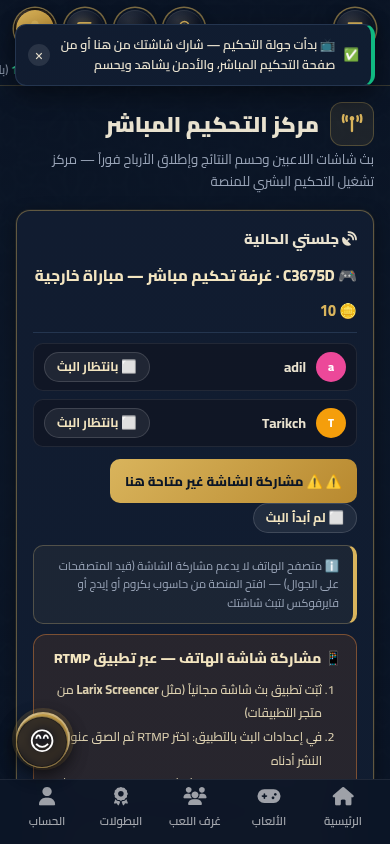
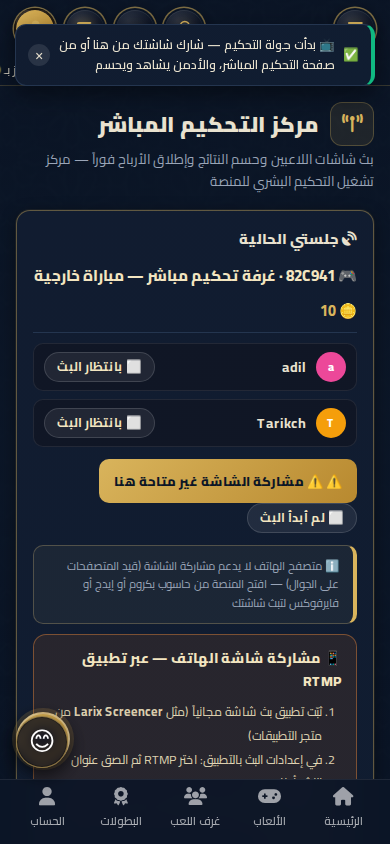
[v2.81.5·ما بعد النشر] توثيق النشر الفعلي: Cloudflare Pages + خادم الهاتف + فحوص ما بعد إعادة التشغيل
CHANGELOG: سطر «آخر تحديث» صار يسجّل النشر حقيقةً لا نيّة (بصمة 2.81.4 حيّة
على dtsg.pages.dev · build 2.81.4 على الهاتف · 401 لا 404 على بوابة
التحكيم · حصر Loopback مثبت بالقياس · 21/21 e2e · حدوده موثّقة).
worklog: سجل الجلسة كاملة مع حدود المقارنة.

diff --git a/CHANGELOG.md b/CHANGELOG.md
@@ -1,7 +1,7 @@
 # سجل التغييرات — DTSG (v2.27 → v2.81.4)
 
 توثيق رسمي لكل التحسينات المنفَّذة منذ الإصدار v2.27 وحتى الحالي.
-آخر تحديث: 2026-10-04 (إتمام **v2.81.4** — إصلاح خلل مشاركة الشاشة الميداني الشامل بعد تسجيل المالك: البطاقة العمياء صارت شارة حيّة ⚪/🟠/⚫، وغرفة Larix تكتشف آلياً وتظهر بلوحة الأدمن، والأدمن يشاهد بث المرحّل فعلاً عبر بروكسي HLS موقّع، مع إصلاح اختصار same-origin في api.js وثغلبة SRT على Loopback — انظر كتلة v2.81.4 أدناه) + 2026-10-04 (إتمام **v2.81.3** — إزالة المسار المشفَّر WARP بقرار المالك + إصلاحا تدقيق P2/P3 + إصلاح خللَي تطبيق الأندرويد APK الميدانيَين: فشل تسجيل الدخول داخل WebView Capacitor وغياب شعار المنصة — انظر كتلة v2.81.3 أدناه — البند المعلَّق على المالك في `docs/PHONE_HANDOFF_v281.md` §4 اتُّخذ ونُفِّذ أحد طرفَيه: **playit.gg مرفوض على التكلفة** (نفقه TCP في خطة مدفوعة، بتأكيد المالك) ⇒ لا يُعاد تقييمه · **المسار أ — نفق bore.pub TCP — منفَّذ تحت pm2 ومُتحقَّق منه طرفاً لطرف** (نشر `ffmpeg` عبر العنوان العام قُرئ `online` ببايتات غير صفرية، ثم أُوقف النفق فعاد المرحّل خالياً) · **المسار ب — شبكة Cloudflare WARP الخاصة — مُحضَّر ومعطَّل بإجراء واحد من المالك** (تفعيل Zero Trust: `access.api.error.not_enabled`) ⇒ **غير مُختبَر ولا يُنشر في أي مكان أنه مُختبَر** — انظر كتلة v2.81.2 أدناه) + 2026-10-03 (إتمام **v2.81.1** — تثبيت MediaMTX v1.21.1 وإشرافه تحت pm2 + **إغلاق بند المصادقة المفتوح: رمز نشر مُشتق بـHMAC داخل المسار** بعد اكتشاف أن انتحال بثّ الخصم أمام الأدمن ممكن + حصر كل مستمعي المرحّل على Loopback + إبقاء اختيار مسار نشر 1935 معلّقاً على المالك — انظر كتلة v2.81.1 أدناه) + 2026-10-03 (إتمام v2.81.0/ج — تثبيت سير عمل APK بتوكن المالك بصلاحية workflow وأول بناء آلي ناجح #1) + **تمريرة تصحيح ما بعد التدقيق على v2.81.0** (١٤ إصلاحاً — انظر «و» في كتلة v2.81.0) — وسابقاً: 2026-10-03 (v2.80.0 — فحص أمني واختراق شامل + إصلاحات فلات دوغ الثلاثة + حراسة الأمان الدائمة + إغلاق ثغرات المال المؤكدة · **نُشر v2.80.0 فعلاً**: Cloudflare Pages بحساب `758fcc827f3338772847c28391b6c6c3` ⇒ `dtsg.pages.dev` يخدم `DTSG_BUILD = 'v2.80.0'`، وخادم الهاتف ⇒ `/api/health` يعيد `build 2.80.0` وكل فحوص ما بعد إعادة التشغيل خضراء · **وما بعد النشر** (القسم هـ): عيب عزل بيئة الاختبار أُصلح ⇒ الكود سليم 15/15 · تصحيح شريط الأخبار 25✓0✗ · **`rn-settle` أحمر 11/18 معلّق على قرار المالك — وشرط القاعدة 12 لم يكن مُلبّى عند إصدار v2.80.0**). ولتفاصيل الجلسات السابقة: v2.79.0 (مدخل تحكيم وحيد + يد بلوت + سجل كوين نقيّ) — v2.78.0 (قانون الجوكر + تبويب التحكيم) — وتفاصيل الجلسات الأقدم في worklog.
+آخر تحديث: 2026-10-04 — **نُشر v2.81.4 فعلاً بعد تصحيح بصمته (قاعدة 15) وقبله**: Cloudflare Pages بالحساب `758fcc82…` ⇒ `dtsg.pages.dev` يخدم `DTSG_BUILD = 'v2.81.4'` + `?v=v2814` + `hls.light.min.js` (200 · 296KB) وترويسات الأمان التسع سليمة · وخادم الهاتف ⇒ `/api/health` يعيد `build 2.81.4` والبوابات المركّبة تردّ **401 لا 404** (`/api/matches/mine` و`…/stream-status`، والشاهد الوهمي 404) · منافذ MediaMTX **الستة** غير قابلة للوصول من عنوان الشبكة (والمنفذ 3000 مفتوح ⇒ الشاهد يثبت صحة القياس) ⇒ حصر Loopback سارٍ في العملية المشغَّلة · ويبهوكات تيليغرام الأربعة بلا `last_error` · أجنحة البوت 72 · 27 · 56 · 91 · e2e التحكيم **21/21** على المرحّل المحلي. (إتمام **v2.81.4** — إصلاح خلل مشاركة الشاشة الميداني الشامل بعد تسجيل المالك: البطاقة العمياء صارت شارة حيّة ⚪/🟠/⚫، وغرفة Larix تكتشف آلياً وتظهر بلوحة الأدمن، والأدمن يشاهد بث المرحّل فعلاً عبر بروكسي HLS موقّع، مع إصلاح اختصار same-origin في api.js وثغلبة SRT على Loopback — انظر كتلة v2.81.4 أدناه) + 2026-10-04 (إتمام **v2.81.3** — إزالة المسار المشفَّر WARP بقرار المالك + إصلاحا تدقيق P2/P3 + إصلاح خللَي تطبيق الأندرويد APK الميدانيَين: فشل تسجيل الدخول داخل WebView Capacitor وغياب شعار المنصة — انظر كتلة v2.81.3 أدناه — البند المعلَّق على المالك في `docs/PHONE_HANDOFF_v281.md` §4 اتُّخذ ونُفِّذ أحد طرفَيه: **playit.gg مرفوض على التكلفة** (نفقه TCP في خطة مدفوعة، بتأكيد المالك) ⇒ لا يُعاد تقييمه · **المسار أ — نفق bore.pub TCP — منفَّذ تحت pm2 ومُتحقَّق منه طرفاً لطرف** (نشر `ffmpeg` عبر العنوان العام قُرئ `online` ببايتات غير صفرية، ثم أُوقف النفق فعاد المرحّل خالياً) · **المسار ب — شبكة Cloudflare WARP الخاصة — مُحضَّر ومعطَّل بإجراء واحد من المالك** (تفعيل Zero Trust: `access.api.error.not_enabled`) ⇒ **غير مُختبَر ولا يُنشر في أي مكان أنه مُختبَر** — انظر كتلة v2.81.2 أدناه) + 2026-10-03 (إتمام **v2.81.1** — تثبيت MediaMTX v1.21.1 وإشرافه تحت pm2 + **إغلاق بند المصادقة المفتوح: رمز نشر مُشتق بـHMAC داخل المسار** بعد اكتشاف أن انتحال بثّ الخصم أمام الأدمن ممكن + حصر كل مستمعي المرحّل على Loopback + إبقاء اختيار مسار نشر 1935 معلّقاً على المالك — انظر كتلة v2.81.1 أدناه) + 2026-10-03 (إتمام v2.81.0/ج — تثبيت سير عمل APK بتوكن المالك بصلاحية workflow وأول بناء آلي ناجح #1) + **تمريرة تصحيح ما بعد التدقيق على v2.81.0** (١٤ إصلاحاً — انظر «و» في كتلة v2.81.0) — وسابقاً: 2026-10-03 (v2.80.0 — فحص أمني واختراق شامل + إصلاحات فلات دوغ الثلاثة + حراسة الأمان الدائمة + إغلاق ثغرات المال المؤكدة · **نُشر v2.80.0 فعلاً**: Cloudflare Pages بحساب `758fcc827f3338772847c28391b6c6c3` ⇒ `dtsg.pages.dev` يخدم `DTSG_BUILD = 'v2.80.0'`، وخادم الهاتف ⇒ `/api/health` يعيد `build 2.80.0` وكل فحوص ما بعد إعادة التشغيل خضراء · **وما بعد النشر** (القسم هـ): عيب عزل بيئة الاختبار أُصلح ⇒ الكود سليم 15/15 · تصحيح شريط الأخبار 25✓0✗ · **`rn-settle` أحمر 11/18 معلّق على قرار المالك — وشرط القاعدة 12 لم يكن مُلبّى عند إصدار v2.80.0**). ولتفاصيل الجلسات السابقة: v2.79.0 (مدخل تحكيم وحيد + يد بلوت + سجل كوين نقيّ) — v2.78.0 (قانون الجوكر + تبويب التحكيم) — وتفاصيل الجلسات الأقدم في worklog.
 
 ---
 

diff --git a/worklog.md b/worklog.md
@@ -786,3 +786,25 @@ Stage Summary:
 - لا حاجة لأي متغير بيئة جديد إلزامي: `MEDIAMTX_HLS_URL` اختياري (افتراضه `http://127.0.0.1:8888`)
 - على المالك بعد السحب: `bash scripts/phone-env-restart.sh` ثم إعادة نشر Cloudflare Pages — بث Larix سيظهر فوراً في لوحة الأدمن
 
+
+Task ID: v2.81.5·ما قبل النشر
+Agent: main (Super Z)
+Task: تدقيق ما قبل النشر على v2.81.4 ثم النشر إلى Cloudflare Pages وتحديث خادم الهاتف — بتوجيه المالك 2026-10-04 (تحدّث الإصدار، انشر، حدّث الهاتف، وتأكّد من تدقيق وتنسيق ملفات المعرفة والشانجلوغ).
+
+Work Log:
+- **الانسجام مع remote:** المستودع المحلي كان متأخراً 5 commits ⇒ `git merge --ff-only origin/main` بلا أي عمل غير محفوظ. لا فروع، ولا `dmgames-arena`/`digital-moroccan-casino` (القاعدتان 1-2)، و`preflight-repo.sh` أخضر.
+- **بصمة الإصدار كانت مكسورة (القاعدة 15):** `package.json`=2.81.4 بينما `window.DTSG_BUILD` في `js/main.js:8`=**v2.81.3** و`package-lock.json`=**2.81.2**. الأثر محدَّد: حارس ما بعد الرفع في `deploy-pages.sh` كان سيقارن `2.81.3` الحيّ بـ`2.81.4` المرتقب فيخرج بـ`exit 5` — **رفع صحيح يُعلن فشلاً كاذباً** (سيناريو القاعدة 15 المقلوب). صُحّح الثلاثة + `?v=js/main.js` من `v2813` إلى `v2814`.
+- **تدقيق `?v=`:** كل ملف واجهة مُعدَّل في v2.81.3/4 يحمل قيمة جديدة (api · arb-admin · arb-page · auth · translations · wallet · live-ws-bridge · css/09-chrome · hls.light) ⇒ لا نقص.
+- **فجوة تغطية (اكتُشفت في التدقيق):** `tests/_v2813_apk_native_test.js` (17 حارساً يحرس إصلاحَي دخول WebView ولوغو المنصة) **غير مسجَّل في `tests/_run_regression_rooms.sh`** ⇒ انحدارٌ في هذين الإصلاحين كان يمرّ صامتاً. سُجِّل (فحوص مصدر ثابتة، بلا خادم وبلا متصفح ⇒ آمنة). `bash -n` أخضر.
+- **الفاشل الوحيد في الانحدار مُثبَت أنه سابق:** `_v2721_opp_slots_test.js` (Δ=0.92px مقابل تسامح 0.4px) حتميّ (تكرّر مرتين بنفس الأرقام). الدليل القاطع: الجناح و`css/08-rami.css` و`js/games/rami.js` **لم تتغيّر منذ v2.73.0**، وليلَيْنة: بإعادة `index.html` الخاص بـv2.81.2 على الخادم المعزول أعاد **الفشل نفسه حرفياً** (0.92px) ⇒ لا علاقة له بـv2.81.3/4.
+- **تدقيق ملفات المعرفة — ما وُثِّق وما كان غائباً:** `AGENTS.md` **غير متسق مع نفسه** (القاعدة 9 = 119 مقابل قائمة البطارية = 117؛ الفعلي **119** بأمر التشغيل، والجناح يحرس عدّاده بنفسه) ⇒ وُحِّدت + كُسرت علامتا تخريض في القاعدة 9. و`docs/ARBITRATION_SETUP.md` §5.5 كان يصف بروكسي HLS **دون** شرط `302 cookieCheck`/جرة الكوكيز المشتركة — وهو **شرط تشغيل لا تحسين** ⇒ أُضيف §ج2. و`docs/PHONE_HANDOFF_v281.md` §3 لم يذكر متغيّري v2.81.4 الاختياريين ولا أن `srtAddress` **يفرض** `pm2 restart mediamtx` ⇒ أُضيف. twin-Workflow (قاعدة 18) متطابق بايت ببايت (`cmp`=0).
+- **النشر:** `deploy-pages.sh` بحساب `758fcc827f3338772847c28391b6c6c3` (البوابة مرّت: env + `wrangler whoami`) ⇒ 315 ملفاً/27م · `dtsg.pages.dev` يخدم `v2.81.4`. تحقّق **مستقل** عن السكربت: البصمة · `hls.light.min.js` 200/296KB · `?v=v2814` · ترويسات CSP/HSTS/XFO/nosniff حاضرة.
+- **خادم الهاتف:** `phone-env-restart.sh` (15 مفتاحاً · 19 في casino-server · 5 في البوت · `pm2 save`) ⇒ `/api/health` يعيد `build 2.81.4`. ثم `pm2 restart mediamtx` لـ`srtAddress` + `pm2 save`.
+- **فحوص ما بعد إعادة التشغيل:** `binance_pay_id`=132972522 ووسيلة `live` · `/api/financials/status` ok · حقل `news` موجود · **401 لا 404** على `mine` و`stream-status` (والشاهد الوهمي 404 ⇒ التركيب مُثبَت لا مصادفة) · ويبهوكات تيليغرام الأربعة بلا `last_error` وبطابور صفري · أجنحة البوت 72 · 27 · 56 · **91** · **حصر Loopback مُثبَت بالقياس**: منافذ MediaMTX الستة (9997/1935/8554/8888/8889/8890) غير قابلة للوصول من `192.168.1.95` بينما 3000 مفتوح (⇒ القياس صحيح لا سلبي كاذب).
+- **e2e التحكيم 21/21 على المرحّل المحلي:** شُغّل بـ`MEDIAMTX_RTMP_URL=rtmp://127.0.0.1:1935` (لا نفق bore) فلا مساس بالبث الحيّ؛ المرحّل نظيف بعدها (`/v3/paths/list` فارغ). **حدود المقارنة:** هذا يتحقّق من **سلسلة المنصة** (نشر موقّع ⇒ بطاقة 🟠 ⇒ جلسة آلية ⇒ اكتشاف ⇒ مشغّل HLS ⇒ حسم بعقد المال) ولا يتحقّق من نفق `bore.pub` نفسه.
+
+Stage Summary:
+- **ما كان سيتعطّل لولا التدقيق:** بصمة البناء كانت ستُعلن فشلاً كاذباً بعد رفع ناجح، وحارسا إصلاحَي APK كانا خارج البطارية.
+- **انحدار كامل نظيف:** 26 ناجح · 1 فاشل (مُثبَت أنه سابق للإصدارين) · 0 متخطّى · جناح v2813 الجديد دخل المجموع وظهر 17/17.
+- **بصمة النشر:** `dtsg.pages.dev` = `DTSG_BUILD 'v2.81.4'` · خادم الهاتف = `build 2.81.4` · بوابة التحكيم 401 لا 404.
+- **يُترك لقرار المالك:** جناح `v2721` الأحمر (تسامح 0.4px مقابل 0.92px على هذا الجهاز) — **تعديل اختبار أم هندسة فعلية**؛ لا صلة له بالإصدار المنشور.
